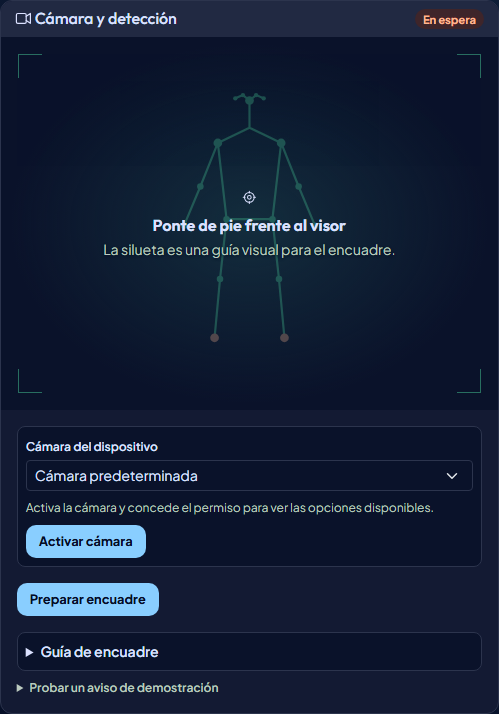
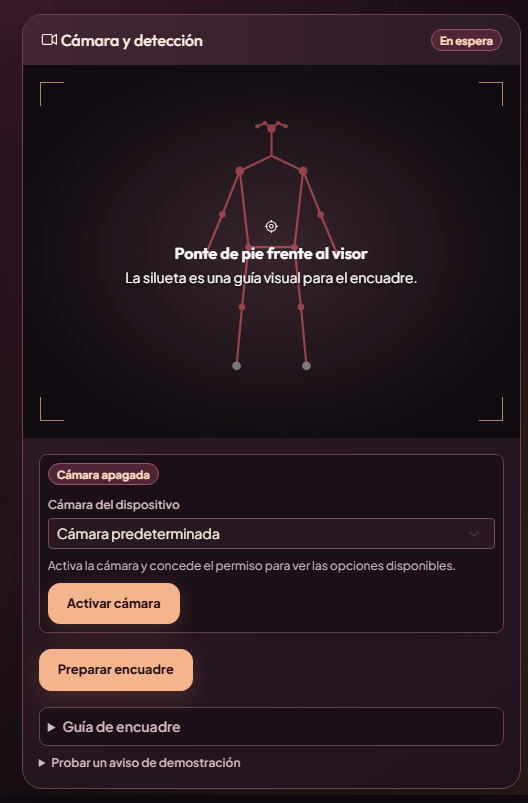
Actualiza las capturas de la interfaz

diff --git a/README.md b/README.md
@@ -144,13 +144,13 @@ Los estados posibles son sin_persona, multiples_personas, no_pose, puntos_insufi
 
 ## 11. Interfaz gráfica y capturas
 
-![Portada y repertorio de Colombia en Movimiento](docs/images/interfaz-principal.png)
+![Portada y tarjetas de las cuatro danzas en el primer paso](docs/images/interfaz-principal.png)
 
-*Figura 1. Interfaz principal para explorar las cuatro danzas.*
+*Figura 1. Portada y repertorio. Cada tarjeta muestra la postura y la región de la danza. El botón «Probar la danza» abre las instrucciones.*
 
-![Visor de cámara en espera](docs/images/visor-en-espera.png)
+![Panel de cámara del segundo paso, con el visor en espera](docs/images/visor-en-espera.png)
 
-*Figura 2. Visor en espera antes de iniciar la detección. La sección de resultados muestra los indicadores cuando llegan fotogramas.*
+*Figura 2. Visor en espera, con la guía de encuadre y los controles para seleccionar y activar la cámara.*
 
 Queda pendiente una captura de la GUI tras reconocer una danza con cámara real que muestre el resultado confirmado y su ficha cultural.
 
